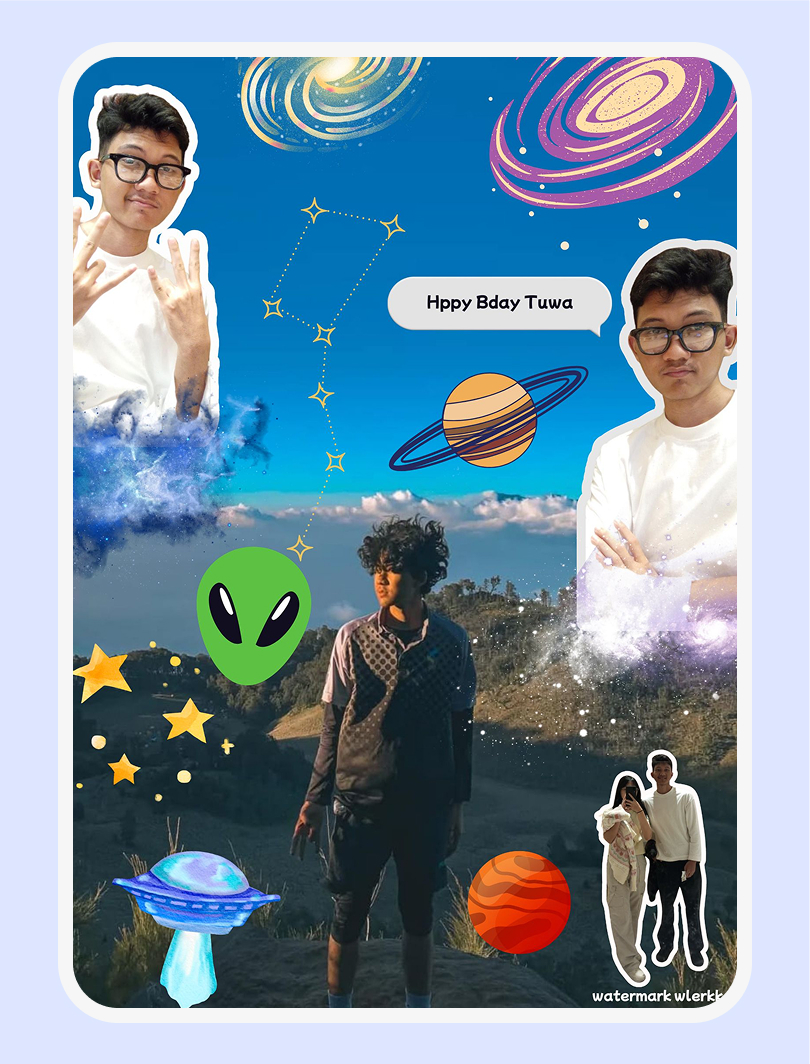
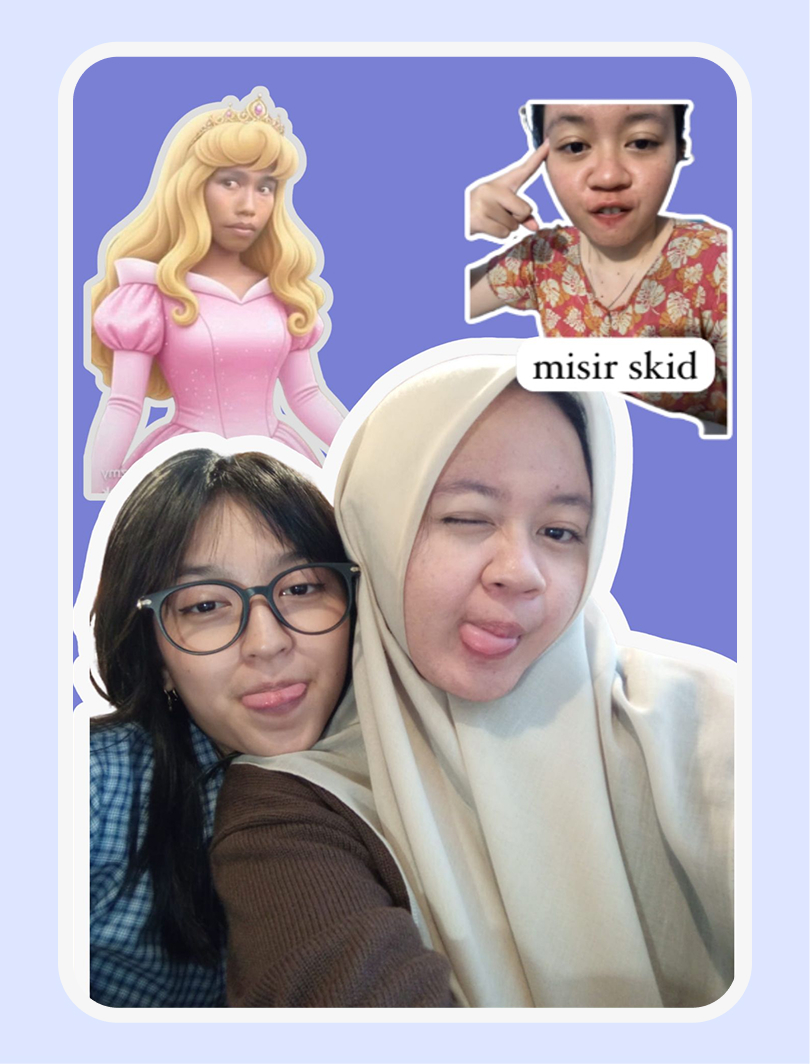
update project content and layout

diff --git a/index.html b/index.html
@@ -19,19 +19,22 @@
         </div>
         <div class="details">
             <div style="margin-bottom: 40px;">
-                <h4 class="color1">A New Chapter Begins</h4>
-                <h4 class="color2">Happy 19 yaa Sepuh Tuwaaa</h4>
+                <h4 class="color1">Yoww Jujuu</h4>
+                <h4 class="color2">I made this special for u</h4>
             </div>
-            <p>Congrats Repeat Year!</p>
-            <p>Stay blessed, & always be yourself</p>
-            <p>Hope this year brings u lots happiness</p>
-            <p>U're ma fav Roblox partner btw!</p>
-            <p>And I'ill no stop annoy u to play, wlerk 😼</p>
-            <p>Keep shining and chasing your dreams</p>
-            <p>May all your dreams come true</p>
-            <p>Meow >3</p>
-            <p class="text-right">Happy Bday, Bang dodooo!</p>
-            <p class="text-right">Naa</p>
+            <p>It's actually oki to feel that way</p>
+            <p>But don forget, if u're more than enough yk 😠</p>
+            <p>I kno u feel kinda empty lately</p>
+            <p>Sometimes ur mind just makes things feel heavier</p>
+            <p>But trust me, it’s just ur mind talkin’ too loud</p>
+            <p>U’re way cooler than u think frrr</p>
+            <p>And pls sleep well, no more 3AM thoo</p>
+            <p>U got this, me always proud of u oh yeah >3</p>
+            <p>Take it ez, no rush oki? world ain’t runnin’ away </p>
+            <p>And hey, don’t forget to smile, it suits u sm fr ✨</p>
+            <p>Meow</p>
+
+            <p class="text-right">Naa (watermark : p)</p>
         </div>
     </div>
     <script src="script.js"></script>

diff --git a/style.css b/style.css
@@ -104,14 +104,14 @@ h4 {
 	box-sizing: border-box;
 	padding: 0 0 0 2px;
 	z-index: -1;
-	margin-top: 40px;
+	margin-top: 30px;
 }
 
 .card .details p {
-	font-size: 15px;
+	font-size: 13px;
 	line-height: 5px;
 	transform: rotate(-10deg);
-	padding: 0 0 0 20px;
+	padding: 0 0 0 15px;
 }
 
 .card .details h4 {
